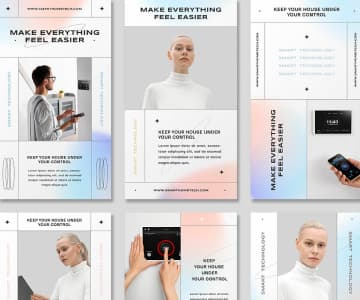
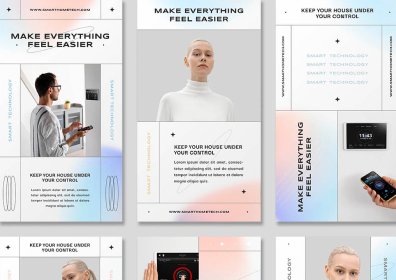
Готово портфолио

diff --git a/portfolio.html b/portfolio.html
@@ -98,9 +98,9 @@
               <a href="" class="galery-link link">
                 <div class="animation-card-container">
                   <img
+                    srcset="./images/galery/1@2x.jpg 2x"
                     src="./images/galery/1.jpg"
                     alt="Bank app"
-                    width="360"
                     class="galerry-img"
                   />
                   <p class="animation-card-text">
@@ -120,9 +120,9 @@
               <a href="" class="galery-link link">
                 <div class="animation-card-container">
                   <img
+                    srcset="./images/galery/2@2x.jpg 2x"
                     src="./images/galery/2.jpg"
                     alt="Phone Checks QR Code"
-                    width="360"
                     class="galerry-img img-adaptation"
                   />
                   <p class="animation-card-text">
@@ -142,9 +142,9 @@
               <a href="" class="galery-link link">
                 <div class="animation-card-container">
                   <img
+                    srcset="./images/galery/3@2x.jpg 2x"
                     src="./images/galery/3.jpg"
                     alt="Notebook with phone"
-                    width="360"
                     class="galerry-img img-adaptation"
                   />
                   <p class="animation-card-text">
@@ -164,9 +164,9 @@
               <a href="" class="galery-link link">
                 <div class="animation-card-container">
                   <img
+                    srcset="./images/galery/4@2x.jpg 2x"
                     src="./images/galery/4.jpg"
                     alt="The driver in the car holds the steering wheel"
-                    width="360"
                     class="galerry-img img-adaptation"
                   />
                   <p class="animation-card-text">
@@ -186,9 +186,9 @@
               <a href="" class="galery-link link">
                 <div class="animation-card-container">
                   <img
+                    srcset="./images/galery/5@2x.jpg 2x"
                     src="./images/galery/5.jpg"
                     alt="Included phone"
-                    width="360"
                     class="galerry-img img-adaptation"
                   />
                   <p class="animation-card-text">
@@ -208,9 +208,9 @@
               <a href="" class="galery-link link">
                 <div class="animation-card-container">
                   <img
+                    srcset="./images/galery/6@2x.jpg 2x"
                     src="./images/galery/6.jpg"
                     alt="girl with headphones in orange sweater"
-                    width="360"
                     class="galerry-img img-adaptation"
                   />
                   <p class="animation-card-text">
@@ -230,9 +230,9 @@
               <a href="" class="galery-link link">
                 <div class="animation-card-container">
                   <img
+                    srcset="./images/galery/7@2x.jpg 2x"
                     src="./images/galery/7.jpg"
                     alt="book pages"
-                    width="360"
                     class="galerry-img img-adaptation"
                   />
                   <p class="animation-card-text">
@@ -252,9 +252,9 @@
               <a href="" class="galery-link link">
                 <div class="animation-card-container">
                   <img
+                    srcset="./images/galery/8@2x.jpg 2x"
                     src="./images/galery/8.jpg"
                     alt="a girl in white carries vegetables in a bag"
-                    width="360"
                     class="galerry-img img-adaptation"
                   />
                   <p class="animation-card-text">
@@ -274,9 +274,9 @@
               <a href="" class="galery-link link">
                 <div class="animation-card-container">
                   <img
+                    srcset="./images/galery/9@2x.jpg 2x"
                     src="./images/galery/9.jpg"
                     alt="a girl in white carries vegetables in a bag"
-                    width="360"
                     class="galerry-img img-adaptation"
                   />
                   <p class="animation-card-text">
@@ -298,57 +298,59 @@
 
     <!--Подвал сайта-->
 
-    <footer class="footer">
+    <footer class="footer-mobile">
       <div class="container footer-container">
-        <div class="footer-container-text">
-          <a href="./index.html" class="logo-footer link"
-            >Web<span class="footer-logo-span">Studio</span>
-          </a>
-          <p class="footer-text">
-            Increase the flow of customers and sales for your business with
-            digital marketing & growth solutions.
-          </p>
-        </div>
+        <div class="footer-container-tablet">
+          <div class="footer-container-text">
+            <a href="./index.html" class="logo-footer link"
+              >Web<span class="footer-logo-span">Studio</span>
+            </a>
+            <p class="footer-text-mobile footer-text-tablet">
+              Increase the flow of customers and sales for your business with
+              digital marketing & growth solutions.
+            </p>
+          </div>
 
-        <div class="footer-social-media">
-          <p class="footer-social-media-text">Social media</p>
+          <div class="footer-social-media">
+            <p class="footer-social-media-text">Social media</p>
 
-          <ul class="footer-list">
-            <li class="item-footer-social">
-              <a href="" class="link link-social-media footer-social-link">
-                <svg class="icon" width="24" height="24">
-                  <use href="./images/icons.svg#icon-instagram"></use>
-                </svg>
-              </a>
-            </li>
-            <li class="item-footer-social">
-              <a href="" class="link link-social-media footer-social-link">
-                <svg class="icon" width="24" height="24">
-                  <use href="./images/icons.svg#icon-twitter"></use>
-                </svg>
-              </a>
-            </li>
-            <li class="item-footer-social">
-              <a href="" class="link link-social-media footer-social-link">
-                <svg class="icon" width="24" height="24">
-                  <use href="./images/icons.svg#icon-facebook"></use>
-                </svg>
-              </a>
-            </li>
-            <li class="item-footer-social">
-              <a href="" class="link link-social-media footer-social-link">
-                <svg class="icon" width="24" height="24">
-                  <use href="./images/icons.svg#icon-linkedin"></use>
-                </svg>
-              </a>
-            </li>
-          </ul>
+            <ul class="footer-list">
+              <li class="item-footer-social">
+                <a href="" class="link link-social-media footer-social-link">
+                  <svg class="icon" width="24" height="24">
+                    <use href="./images/icons.svg#icon-instagram"></use>
+                  </svg>
+                </a>
+              </li>
+              <li class="item-footer-social">
+                <a href="" class="link link-social-media footer-social-link">
+                  <svg class="icon" width="24" height="24">
+                    <use href="./images/icons.svg#icon-twitter"></use>
+                  </svg>
+                </a>
+              </li>
+              <li class="item-footer-social">
+                <a href="" class="link link-social-media footer-social-link">
+                  <svg class="icon" width="24" height="24">
+                    <use href="./images/icons.svg#icon-facebook"></use>
+                  </svg>
+                </a>
+              </li>
+              <li class="item-footer-social">
+                <a href="" class="link link-social-media footer-social-link">
+                  <svg class="icon" width="24" height="24">
+                    <use href="./images/icons.svg#icon-linkedin"></use>
+                  </svg>
+                </a>
+              </li>
+            </ul>
+          </div>
         </div>
         <!-- ----------FORM------------------ -->
-        <div class="container-form">
-          <p class="subscribe-text">Subscribe</p>
+        <div class="container-form-mobile footer-social-media-tablet">
+          <p class="subscribe-text-mobile">Subscribe</p>
 
-          <form class="form-list-footer">
+          <form class="form-list-footer-tablet">
             <label for="subscribe" class="label-subscribe"
               ><input
                 type="email"
@@ -357,6 +359,7 @@
                 placeholder="E-mail"
                 id="subscribe"
                 class="form-footer"
+                required
             /></label>
 
             <button type="submit" class="btn-form-footter">

diff --git a/css/styles-adaptation.css b/css/styles-adaptation.css
@@ -296,10 +296,6 @@ a {
   justify-content: center;
   flex-wrap: wrap;
   gap: 72px 16px;
-  /* justify-content: flex-start;
-  flex-wrap: wrap;
-  
-  gap: 72px 16px; */
 }
 
 .link-costumers-mobile {
@@ -356,7 +352,8 @@ a {
 
 @media screen and (max-width: 767px) {
   .nav-links,
-  .contact {
+  .contact,
+  .animation-card-text {
     display: none;
   }
 }
@@ -1088,6 +1085,50 @@ a {
   background-color: var(--acsent-color);
   color: #ffffff;
 }
+
+.galery-list {
+  margin-top: 48px;
+}
+
+.galery-link {
+  display: block;
+  transition: box-shadow 250ms cubic-bezier(0.4, 0, 0.2, 1);
+}
+
+.galery-link:hover,
+.galery-link:focus {
+  box-shadow: 0px 1px 6px rgba(46, 47, 66, 0.08),
+    0px 1px 1px rgba(46, 47, 66, 0.16), 0px 2px 1px rgba(46, 47, 66, 0.08);
+}
+
+.galery-paragrav {
+  color: var(--title-paragrav-color);
+  line-height: 1.5;
+}
+
+.galery-title {
+  color: var(--primary-text-color);
+  font-size: 20px;
+  line-height: 1.2;
+  font-weight: 500;
+  letter-spacing: 0.02em;
+
+  margin-bottom: 8px;
+}
+
+.galerry-item-card:not(:last-child) {
+  margin-bottom: 48px;
+}
+
+.galerry-card-content {
+  padding-top: 32px;
+  padding-bottom: 32px;
+  padding-left: 16px;
+  padding-right: 16px;
+
+  border: 1px solid #e7e9fc;
+  border-top: none;
+}
 /* ---------------------------HEADER-TABLET------------------------- */
 
 @media screen and (min-width: 768px) {
@@ -1285,6 +1326,58 @@ a {
     width: 408px;
     padding-left: 23px;
     padding-right: 25px;
+  }
+
+  /* ------------PORTFOLIO-------------- */
+
+  .galery-list {
+    display: flex;
+    flex-wrap: wrap;
+    gap: 0 24px;
+    margin: 0;
+  }
+
+  .galerry-item-card {
+    width: 356px;
+  }
+
+  .galerry-btn-list {
+    justify-content: center;
+    padding: 0;
+    margin-bottom: 64px;
+  }
+  .animation-card-container {
+    overflow: hidden;
+    position: relative;
+  }
+
+  .animation-card-text {
+    padding: 40px 32px;
+    position: absolute;
+    top: 0;
+    opacity: 1;
+    pointer-events: none;
+    background-color: #4d5ae5;
+    width: 100%;
+    height: 100%;
+    color: var(--button-portvolio-color);
+
+    font-family: 'Roboto', sans-serif;
+    font-style: normal;
+    font-weight: 400;
+    font-size: 16px;
+    line-height: 1.5;
+    letter-spacing: 0.02em;
+
+    transform: translateY(100%);
+    transition: transform 250ms cubic-bezier(0.4, 0, 0.2, 1);
+  }
+
+  .galery-link:hover .animation-card-container::before,
+  .galery-link:hover .animation-card-text,
+  .galery-link:focus .animation-card-container::before,
+  .galery-link:focus .animation-card-text {
+    transform: translateY(0px);
   }
 }
 

diff --git a/css/styles.css b/css/styles.css
@@ -871,11 +871,6 @@ body {
   transform: translateY(0px);
 }
 
-.img-adaptation {
-  max-width: 100%;
-  height: auto;
-}
-
 /* ------------------------МОДАЛЬНОЕ ОКНО И БЕКДРОП ----------------------- */
 
 .backdrop {
